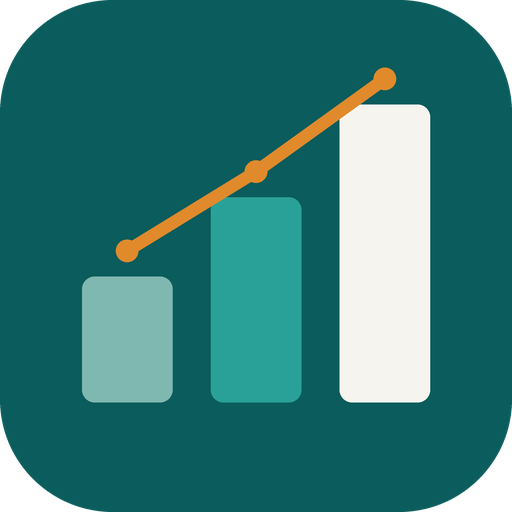
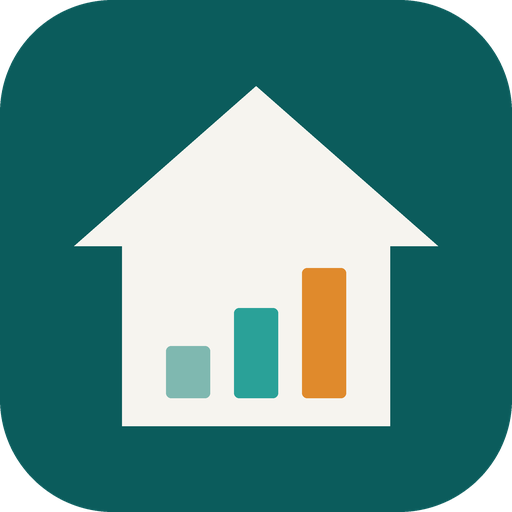
v1.1.0: ny ikon, börsavkastning i Prognos, aktuell månad vid start, skatt på värdeökning

diff --git a/index.html b/index.html
@@ -6,9 +6,10 @@
 <title>Our Net Worth</title>
 <meta name="theme-color" content="#0B5C5C">
 <meta name="description" content="Vad vi har sparat nu och vad vi kan ha om några år. All data stannar i din webbläsare.">
-<link rel="manifest" href="manifest.webmanifest">
-<link rel="icon" type="image/png" href="icon-192.png">
-<link rel="apple-touch-icon" href="apple-touch-icon.png">
+<link rel="manifest" href="manifest.webmanifest?v=3">
+<link rel="icon" type="image/svg+xml" href="icon.svg?v=3">
+<link rel="icon" type="image/png" sizes="32x32" href="favicon-32.png?v=3">
+<link rel="apple-touch-icon" href="apple-touch-icon.png?v=3">
 <meta name="apple-mobile-web-app-capable" content="yes">
 <meta name="mobile-web-app-capable" content="yes">
 <meta name="apple-mobile-web-app-title" content="Net Worth">
@@ -58,7 +59,7 @@ p{margin:0}
 .btn{width:100%;min-height:48px;border:1px solid var(--line);border-radius:14px;background:#fff;font-size:14px;font-weight:600;color:var(--accent);padding:0 14px}
 .btn.primary{background:var(--accent);border-color:var(--accent);color:#fff}
 .btn.danger{color:var(--neg)}
-.btn.sm{min-height:40px;width:auto;font-size:13px;border-radius:12px}
+.btn.sm{min-height:40px;width:auto;font-size:13px;border-radius:12px;white-space:nowrap;flex:none}
 .btn:disabled{opacity:.5;cursor:default}
 .btn+.btn{margin-top:10px}
 .link{border:0;background:none;color:var(--accent);font-size:13px;font-weight:600;min-height:44px;padding:0 6px}
@@ -126,9 +127,9 @@ p{margin:0}
 /* ============================================================
    Our Net Worth – en enda fil. All data ligger i webbläsaren.
    ============================================================ */
-const APP_VERSION = '1.0.0';
+const APP_VERSION = '1.1.0';
 const DATA_MODEL = 1;
-const CHANGELOG = { '1.0.0': 'Första versionen: saldon per månad för två personer och gemensamt, översikt, prognos år för år och säkerhetskopior.' };
+const CHANGELOG = { '1.1.0': 'Ny ikon, årlig avkastning för börskonton direkt i Prognos, appen öppnar i aktuell månad och skatt (22 %) dras av på lägenhetens värdeökning.', '1.0.0': 'Första versionen: saldon per månad för två personer och gemensamt, översikt, prognos år för år och säkerhetskopior.' };
 const LS_KEY = 'onw_data_v1';
 const LS_TOKEN = 'onw_gist_token';
 
@@ -183,7 +184,7 @@ function parseNum(v) {
 /* ---------- data ---------- */
 function emptyDb() {
   return { model: DATA_MODEL, appVersion: APP_VERSION,
-    settings: { nameA: 'Jag', nameB: 'Min man', shareA: 50, homeValue: 0, horizon: 10, scenario: 0, real: false, inflation: 2, contribGrowth: 0, remind: true, gistAuto: false },
+    settings: { nameA: 'Jag', nameB: 'Min man', shareA: 50, homeValue: 0, horizon: 10, scenario: 0, real: false, inflation: 2, contribGrowth: 0, taxRate: 22, remind: true, gistAuto: false },
     posts: DEFAULT_POSTS.map(p => ({ ...p })), entries: {}, assump: {},
     meta: { lastSnapMonth: '', gistId: '', gistLast: 0 } };
 }
@@ -235,9 +236,12 @@ function valueAt(id, mk) {
   return { v: null, carried: false, from: null };
 }
 function owners() { return [{ id: 'a', name: db.settings.nameA || 'Jag', color: 'var(--ca)', hex: '#0B5C5C' }, { id: 'b', name: db.settings.nameB || 'Min man', color: 'var(--cb)', hex: '#E08A2C' }, { id: 's', name: 'Gemensamt', color: 'var(--cs)', hex: '#7A5CC2' }]; }
+const taxRate = () => Math.min(100, Math.max(0, +db.settings.taxRate || 0)) / 100;
+/* Värdeökning på bostaden räknas efter skatt. Förlust ger ingen skattelättnad i appen. */
+function netOf(p, v) { if (v === null || v === undefined) return 0; return p.kind === 'appr' && v > 0 ? v * (1 - taxRate()) : v; }
 function snapshotAt(mk) {
   const g = { a: 0, b: 0, s: 0 }; const per = {};
-  for (const p of db.posts) { const r = valueAt(p.id, mk); per[p.id] = r; g[p.owner] += r.v || 0; }
+  for (const p of db.posts) { const r = valueAt(p.id, mk); r.net = netOf(p, r.v); per[p.id] = r; g[p.owner] += r.net; }
   const sh = Math.min(100, Math.max(0, +db.settings.shareA || 0)) / 100;
   const total = g.a + g.b + g.s;
   return { g, per, total, a: g.a + g.s * sh, b: g.b + g.s * (1 - sh) };
@@ -265,7 +269,7 @@ function project(years, adj, real) {
       else { const rm = Math.pow(1 + r, 1 / 12) - 1; const c = a.contrib * (['saving', 'invest'].includes(p.kind) ? Math.pow(1 + cg, Math.floor((m - 1) / 12)) : 1); bal[p.id] = bal[p.id] * (1 + rm) + c; }
     }
     if (m % 12 === 0) {
-      const f = real ? 1 / Math.pow(1 + inf, m / 12) : 1; const g = { a: 0, b: 0, s: 0 }; for (const p of db.posts) g[p.owner] += bal[p.id] * f;
+      const f = real ? 1 / Math.pow(1 + inf, m / 12) : 1; const g = { a: 0, b: 0, s: 0 }; for (const p of db.posts) g[p.owner] += netOf(p, bal[p.id]) * f;
       pts.push({ y: m / 12, mk: addMonths(last, m), g, total: g.a + g.b + g.s, a: g.a + g.s * sh, b: g.b + g.s * (1 - sh) });
     }
   }
@@ -329,10 +333,9 @@ const backHead = t => `<header><button class="link" style="margin-left:-6px" dat
 function deltaTxt(d, suffix) { const r = Math.round(d); return `<span class="${r > 0 ? 'pos' : r < 0 ? 'neg' : 'muted'}">${fmtS(d)} kr${suffix || ''}</span>`; }
 
 /* ---------- Översikt ---------- */
-function reminder() {
-  if (!db.settings.remind || !latestMonth()) return ''; const now = new Date(); const d = now.getDate();
-  if (!(d >= 25 || d <= 5) || db.entries[currentMonth()]) return '';
-  return `<div class="banner"><span>Dags att mata in saldon för ${monthName(currentMonth())}</span><button class="btn sm" data-a="nav" data-v="entry">Mata in</button></div>`;
+function reminder(mk) {
+  if (!db.settings.remind || !latestMonth() || mk !== currentMonth() || db.entries[mk]) return '';
+  return `<div class="banner"><span>Inga saldon inmatade för ${monthName(mk)} än. Siffrorna visar senast inmatade värden.</span><button class="btn sm" data-a="nav" data-v="entry">Mata in</button></div>`;
 }
 function viewOverview() {
   const last = latestMonth();
@@ -343,10 +346,10 @@ function viewOverview() {
     <label class="lbl2" for="n-b">Andra personen</label><input class="inp" id="n-b" value="${esc(db.settings.nameB)}" data-change="nameB" autocomplete="off">
     <div style="margin-top:16px"><button class="btn primary" data-a="nav" data-v="entry">Mata in första saldona</button></div></div>`;
   }
-  const first = firstMonth(); const mk = S.month > last ? last : S.month < first ? first : S.month;
+  const first = firstMonth(); const upper = last > currentMonth() ? last : currentMonth(); const mk = S.month > upper ? upper : S.month < first ? first : S.month;
   const cur = snapshotAt(mk); const pm = addMonths(mk, -1); const hasPrev = mk > first; const prev = hasPrev ? snapshotAt(pm) : null;
   const O = owners();
-  let h = `<header>${monthRow(mk, 'mprev', 'mnext', mk > first, mk < last)}<h1>Översikt</h1></header>` + reminder();
+  let h = `<header>${monthRow(mk, 'mprev', 'mnext', mk > first, mk < upper)}<h1>Översikt</h1></header>` + reminder(mk);
   const dTot = prev ? cur.total - prev.total : null;
   h += `<div class="card pad"><div class="small muted">Nettovärde ${monthName(mk)}</div><div class="mono big" style="font-size:30px;margin-top:2px">${fmt(cur.total)} kr</div>
   <div class="small" style="margin-top:4px">${prev ? deltaTxt(dTot, ` mot ${monthName(pm)}`) : '<span class="muted">Första månaden i appen</span>'}</div></div>`;
@@ -362,7 +365,10 @@ function viewOverview() {
   for (const o of O) {
     const ps = db.posts.filter(p => p.owner === o.id); if (!ps.length) continue;
     h += `<div class="card" style="margin-top:8px"><div class="line" style="padding-bottom:6px"><div class="t" style="display:flex;align-items:center;gap:8px;font-weight:600"><span class="dot" style="background:${o.hex}"></span>${esc(o.name)}</div><div class="mono small">${fmt(cur.g[o.id])} kr</div></div>`
-      + ps.map(p => { const r = cur.per[p.id]; const pr = prev ? prev.per[p.id] : null; const d = pr && r.v !== null ? (r.v - (pr.v || 0)) : null; return `<div class="line"><div><div class="t">${esc(p.name)}</div><div class="s">${r.v === null ? 'Ingen inmatning än' : (r.carried ? 'oförändrad sedan ' + monthName(r.from) : (d !== null ? deltaTxt(d, '') : ''))}</div></div><div class="mono">${r.v === null ? '–' : fmt(r.v) + ' kr'}</div></div>`; }).join('') + `</div>`;
+      + ps.map(p => { const r = cur.per[p.id]; const pr = prev ? prev.per[p.id] : null; const d = pr && r.v !== null ? (r.net - pr.net) : null;
+        let sub = r.v === null ? 'Ingen inmatning än' : (r.carried ? 'oförändrad sedan ' + monthName(r.from) : (d !== null ? deltaTxt(d, '') : ''));
+        if (p.kind === 'appr' && r.v !== null && r.v > 0 && taxRate() > 0) sub += `${sub ? ' · ' : ''}efter ${Math.round(taxRate() * 1000) / 10} % skatt, brutto ${fmt(r.v)}`;
+        return `<div class="line"><div><div class="t">${esc(p.name)}</div><div class="s">${sub}</div></div><div class="mono">${r.v === null ? '–' : fmt(r.net) + ' kr'}</div></div>`; }).join('') + `</div>`;
   }
   return h;
 }
@@ -383,9 +389,11 @@ function viewEntry() {
   return h;
 }
 function deltaFor(id, val, mk) {
-  const pv = valueAt(id, addMonths(mk, -1)).v; if (pv === null) return val !== null ? '' : '';
+  const p = post(id); const pv = valueAt(id, addMonths(mk, -1)).v;
+  const tax = p && p.kind === 'appr' && val !== null && val > 0 && taxRate() > 0 ? `efter skatt ${fmt(val * (1 - taxRate()))} kr` : '';
+  if (pv === null) return tax;
   if (val === null) return `förra månaden ${fmt(pv)} kr`;
-  const d = val - pv; return `${fmtS(d)} kr mot förra månaden`;
+  return `${fmtS(val - pv)} kr mot förra månaden${tax ? ' · ' + tax : ''}`;
 }
 
 /* ---------- Prognos ---------- */
@@ -397,6 +405,7 @@ function viewForecast() {
   h += `<div class="pills" role="group" aria-label="Period">${[5, 10, 20, 30].map(n => `<button class="pill" data-a="horizon" data-v="${n}" aria-pressed="${hz === n}">${n} år</button>`).join('')}</div>`;
   h += `<div class="pills" role="group" aria-label="Scenario">${[[-2, 'Försiktigt'], [0, 'Normalt'], [2, 'Gott']].map(([v, l]) => `<button class="pill" data-a="scenario" data-v="${v}" aria-pressed="${adj === v}">${l}</button>`).join('')}</div>`;
   h += `<div class="pills"><button class="pill" data-a="real" data-v="0" aria-pressed="${!real}">Nominellt</button><button class="pill" data-a="real" data-v="1" aria-pressed="${real}">Dagens penningvärde</button></div>`;
+  h += bossHtml();
   h += `<div class="card pad"><div class="small muted">Om ${hz} år (${monthName(end.mk)} ${end.mk.slice(0, 4)})</div><div class="mono big" style="font-size:30px;margin-top:2px">${fmt(end.total)} kr</div>
   <div class="small" style="margin-top:4px">${deltaTxt(end.total - now.total, ' mot nu')}</div></div>`;
   h += `<div class="card">${[['a', end.a], ['b', end.b]].map(([id, v]) => { const o = O.find(x => x.id === id); return `<div class="line"><div><div class="t" style="display:flex;align-items:center;gap:8px"><span class="dot" style="background:${o.hex}"></span>${esc(o.name)}</div><div class="s">inklusive andel av gemensamt</div></div><div class="mono">${fmt(v)} kr</div></div>`; }).join('')}<div class="line"><div><div class="t" style="display:flex;align-items:center;gap:8px"><span class="dot" style="background:#7A5CC2"></span>Gemensamt</div><div class="s">ingår i summorna ovan</div></div><div class="mono">${fmt(end.g.s)} kr</div></div></div>`;
@@ -405,11 +414,18 @@ function viewForecast() {
   const rows = pts.filter(p => p.y > 0 && (p.y <= 5 || p.y % 5 === 0 || p.y === hz));
   h += `<div class="card" style="padding:8px 12px 4px"><div class="tbl h"><div style="text-align:left">År</div><div>${esc((db.settings.nameA || 'Jag').slice(0, 7))}</div><div>${esc((db.settings.nameB || 'Man').slice(0, 7))}</div><div>Gem.</div><div>Totalt</div></div>`
     + rows.map(p => `<div class="tbl r"><div class="y">${p.mk.slice(0, 4)}</div><div>${fmt(p.g.a / 1000)}</div><div>${fmt(p.g.b / 1000)}</div><div>${fmt(p.g.s / 1000)}</div><div class="tt">${fmt(p.total / 1000)}</div></div>`).join('') + `</div>`;
+  if (taxRate() > 0 && db.posts.some(p => p.kind === 'appr')) h += `<p class="note">Lägenhetens värdeökning räknas efter ${Math.round(taxRate() * 1000) / 10} % skatt. Ändra under Mer.</p>`;
   if (!(+st.homeValue) && db.posts.some(p => p.kind === 'appr')) h += `<p class="note" style="color:var(--neg)">Fyll i lägenhetens värde under Ändra antaganden för att räkna med värdeökning framåt. Tills dess hålls värdeökningen oförändrad.</p>`;
   h += `<p class="note">Tabellen är i tusen kronor och visar egna poster per person och gemensamt var för sig, mätt ${latestMonth() ? monthName(latestMonth()) : ''} varje år. Prognosen är ett räkneexempel utifrån antagandena nedan, inte en garanti. Börsens avkastning varierar kraftigt mellan åren.</p>`;
   h += `<div class="actionbar" style="position:static;background:none;margin-top:6px"><button class="btn" data-a="assump">${S.assumpOpen ? 'Dölj antaganden' : 'Ändra antaganden'}</button></div>`;
   if (S.assumpOpen) h += assumptionsHtml();
   return h;
+}
+function bossHtml() {
+  const ps = db.posts.filter(p => p.kind === 'invest'); if (!ps.length) return '';
+  const O = owners();
+  return `<div class="card pad"><h2 style="font-size:15px">Årlig avkastning på börskonton</h2><p class="note" style="margin:2px 0 6px">Procent per år. Scenariot ovan lägger till eller drar ifrån två procentenheter.</p>`
+    + ps.map(p => { const a = assumpOf(p); const o = O.find(x => x.id === p.owner); return `<div class="field"><label for="ret-${p.id}"><span style="display:inline-flex;align-items:center;gap:8px"><span class="dot" style="background:${o.hex}"></span>${esc(o.name)}</span><span class="hint">${esc(p.name)}</span></label><input class="inp num" id="ret-${p.id}" inputmode="decimal" data-change="aret" data-id="${p.id}" value="${a.custom.ret !== undefined ? a.custom.ret : ''}" placeholder="${a.d.ret}" aria-label="Årlig avkastning i procent för ${esc(o.name)} ${esc(p.name)}"></div>`; }).join('') + `</div>`;
 }
 function assumptionsHtml() {
   let h = `<div class="card pad"><div class="lbl2" style="margin-top:0">Lägenhetens värde idag (kr)</div><input class="inp num" inputmode="decimal" data-change="homeValue" value="${db.settings.homeValue ? String(db.settings.homeValue) : ''}" placeholder="Behövs för värdeökning framåt" aria-label="Lägenhetens värde idag">
@@ -418,10 +434,10 @@ function assumptionsHtml() {
   for (const o of owners()) {
     const ps = db.posts.filter(p => p.owner === o.id && p.kind !== 'fixed'); if (!ps.length) continue;
     h += `<div class="gh"><span class="dot" style="background:${o.hex}"></span>${esc(o.name)}</div><div class="card" style="margin-top:6px;padding:6px 16px 10px">`;
-    h += ps.map(p => { const a = assumpOf(p); const showC = p.kind !== 'appr';
+    h += ps.map(p => { const a = assumpOf(p); const showC = p.kind !== 'appr'; const showR = p.kind !== 'invest';
       return `<div style="padding:8px 0;border-bottom:1px solid var(--line3)"><div class="t" style="font-size:14px;font-weight:600">${esc(p.name)} <span class="small muted" style="font-weight:400">${KINDS[p.kind].label}</span></div>
-      <div style="display:grid;grid-template-columns:${showC ? '1fr 1fr' : '1fr'};gap:10px">${showC ? `<div><div class="lbl2">Per månad (kr)</div><input class="inp num" inputmode="decimal" data-change="acontrib" data-id="${p.id}" value="${a.custom.contrib !== undefined ? a.custom.contrib : ''}" placeholder="${fmt(a.d.contrib)}" aria-label="Sparande per månad för ${esc(p.name)}"></div>` : ''}
-      <div><div class="lbl2">${p.kind === 'appr' ? 'Värdeökning' : 'Avkastning'} per år (%)</div><input class="inp num" inputmode="decimal" data-change="aret" data-id="${p.id}" value="${a.custom.ret !== undefined ? a.custom.ret : ''}" placeholder="${a.d.ret}" aria-label="Avkastning för ${esc(p.name)}"></div></div></div>`; }).join('');
+      <div style="display:grid;grid-template-columns:${showC && showR ? '1fr 1fr' : '1fr'};gap:10px">${showC ? `<div><div class="lbl2">Per månad (kr)</div><input class="inp num" inputmode="decimal" data-change="acontrib" data-id="${p.id}" value="${a.custom.contrib !== undefined ? a.custom.contrib : ''}" placeholder="${fmt(a.d.contrib)}" aria-label="Sparande per månad för ${esc(p.name)}"></div>` : ''}
+      ${showR ? `<div><div class="lbl2">${p.kind === 'appr' ? 'Värdeökning' : 'Avkastning'} per år (%)</div><input class="inp num" inputmode="decimal" data-change="aret" data-id="${p.id}" value="${a.custom.ret !== undefined ? a.custom.ret : ''}" placeholder="${a.d.ret}" aria-label="Avkastning för ${esc(p.name)}"></div>` : ''}</div></div>`; }).join('');
     h += `</div>`;
   }
   h += `<p class="note">Ljusa siffror är förslag. Månadsbeloppet föreslås från hur saldot ändrats de senaste månaderna, så för börskonton ingår då även värdeförändring. Skriv in vad ni faktiskt sätter in för en säkrare prognos. Tomt fält återgår till förslaget.</p>`;
@@ -437,6 +453,8 @@ function viewMore() {
   <div class="lbl2">Andra personen</div><input class="inp" value="${esc(st.nameB)}" data-change="nameB" autocomplete="off" aria-label="Andra personens namn">
   <div class="lbl2">${esc(st.nameA)}s andel av gemensamt (%)</div><input class="inp num" inputmode="decimal" value="${st.shareA}" data-change="shareA" aria-label="Första personens andel av gemensamt">
   <p class="note">Gemensamma poster (bostaden) delas så här när ni ser varje persons totala värde. Resten blir ${esc(st.nameB)}s andel.</p></div>
+  <div class="card pad"><div class="lbl2" style="margin-top:0">Skatt på lägenhetens värdeökning (%)</div><input class="inp num" inputmode="decimal" value="${st.taxRate}" data-change="taxRate" aria-label="Skatt på värdeökning i procent">
+  <p class="note">Reavinstskatten på privatbostad är 22 % av vinsten, och appen drar av den från den estimerade värdeökningen i alla summor. Avdrag för förbättringar och mäklararvode räknas inte in, och uppskov är inte med. Skriv 0 om ni inte vill dra av skatt.</p></div>
   <div class="card"><button class="menu-btn" data-a="sub" data-v="posts">Poster och kolumner<span class="muted small" style="margin-left:auto">${db.posts.length}</span>${chev}</button>
   <button class="menu-btn" data-a="sub" data-v="backup">Backup och versioner${chev}</button></div>
   <p class="note">Version ${APP_VERSION} · datamodell ${DATA_MODEL}. All data ligger bara i den här webbläsaren.</p>`;
@@ -472,7 +490,7 @@ function viewBackup() {
   <div class="check" style="margin-top:6px"><input type="checkbox" id="gist-auto" ${db.settings.gistAuto ? 'checked' : ''} data-change="gistauto"><label for="gist-auto">Automatisk kopia varje vecka</label></div>
   <div class="small muted" style="margin-bottom:8px">${db.meta.gistLast ? 'Senaste Gist-kopia ' + new Date(db.meta.gistLast).toLocaleString('sv-SE', { dateStyle: 'short', timeStyle: 'short' }) : 'Ingen Gist-kopia än'}</div>
   <div class="stack"><button class="btn" data-a="gistsave">Spara kopia nu</button><button class="btn" data-a="gistrestore" ${db.meta.gistId ? '' : 'disabled'}>Hämta senaste kopian</button></div></div>
-  <div class="card pad"><div class="check" style="min-height:40px"><input type="checkbox" id="remind" ${db.settings.remind ? 'checked' : ''} data-change="remind"><label for="remind">Påminn vid månadsskifte om att mata in saldon</label></div></div>
+  <div class="card pad"><div class="check" style="min-height:40px"><input type="checkbox" id="remind" ${db.settings.remind ? 'checked' : ''} data-change="remind"><label for="remind">Visa påminnelse när månadens saldon saknas</label></div></div>
   <h3>Appversion</h3>
   <div class="card pad" style="margin-top:8px"><div class="line" style="padding-top:0"><div class="t">v${APP_VERSION}</div><div class="s">Datamodell ${DATA_MODEL}</div></div><p class="note" style="margin:0">Nytt i v${APP_VERSION}: ${esc(CHANGELOG[APP_VERSION] || '')}</p><div class="stack" style="margin-top:10px"><button class="btn" data-a="checkupdate">Sök efter uppdatering</button></div></div>
   <h3>Återställningspunkter</h3><p class="note" style="margin-top:4px">Skapas automatiskt före återställning och uppdatering samt vid månadsskifte. De tio senaste sparas i webbläsaren.</p>
@@ -570,6 +588,7 @@ document.addEventListener('change', e => {
   if (k === 'nameA' || k === 'nameB') { st[k] = el.value.trim() || (k === 'nameA' ? 'Jag' : 'Min man'); save(); if (latestMonth()) render(true); }
   else if (k === 'shareA') { const v = parseNum(el.value); st.shareA = v === null ? 50 : Math.min(100, Math.max(0, v)); save(); render(true); }
   else if (k === 'homeValue') { const v = parseNum(el.value); st.homeValue = v === null || v < 0 ? 0 : v; save(); render(true); }
+  else if (k === 'taxRate') { const v = parseNum(el.value); st.taxRate = v === null ? 22 : Math.min(100, Math.max(0, v)); save(); render(true); }
   else if (k === 'contribGrowth' || k === 'inflation') { const v = parseNum(el.value); st[k] = v === null ? 0 : v; save(); render(true); }
   else if (k === 'acontrib' || k === 'aret') {
     const id = el.dataset.id; const f = k === 'acontrib' ? 'contrib' : 'ret'; const v = parseNum(el.value); db.assump[id] = db.assump[id] || {};
@@ -596,7 +615,7 @@ $('#file-restore').addEventListener('change', async e => {
    Start
    ============================================================ */
 async function boot() {
-  loadDb(); const last = latestMonth(); S.month = last || currentMonth();
+  loadDb(); const last = latestMonth(); S.month = currentMonth(); S.emonth = currentMonth();
   if (last) {
     if (db.appVersion && db.appVersion !== APP_VERSION) await snapshot(`Före uppdatering till v${APP_VERSION}`);
     if (db.meta.lastSnapMonth !== currentMonth()) { await snapshot('Månadsskifte'); db.meta.lastSnapMonth = currentMonth(); }

diff --git a/sw.js b/sw.js
@@ -1,7 +1,7 @@
 // Håll VERSION i synk med APP_VERSION i index.html
-const VERSION = '1.0.0';
+const VERSION = '1.1.0';
 const CACHE = 'ournetworth-' + VERSION;
-const ASSETS = ['./', './index.html', './manifest.webmanifest', './icon-192.png', './icon-512.png', './apple-touch-icon.png'];
+const ASSETS = ['./', './index.html', './manifest.webmanifest', './icon-192.png', './icon-512.png', './apple-touch-icon.png', './icon.svg', './favicon-32.png'];
 
 self.addEventListener('install', (e) => {
   e.waitUntil(caches.open(CACHE).then((c) => c.addAll(ASSETS)).then(() => self.skipWaiting()));
